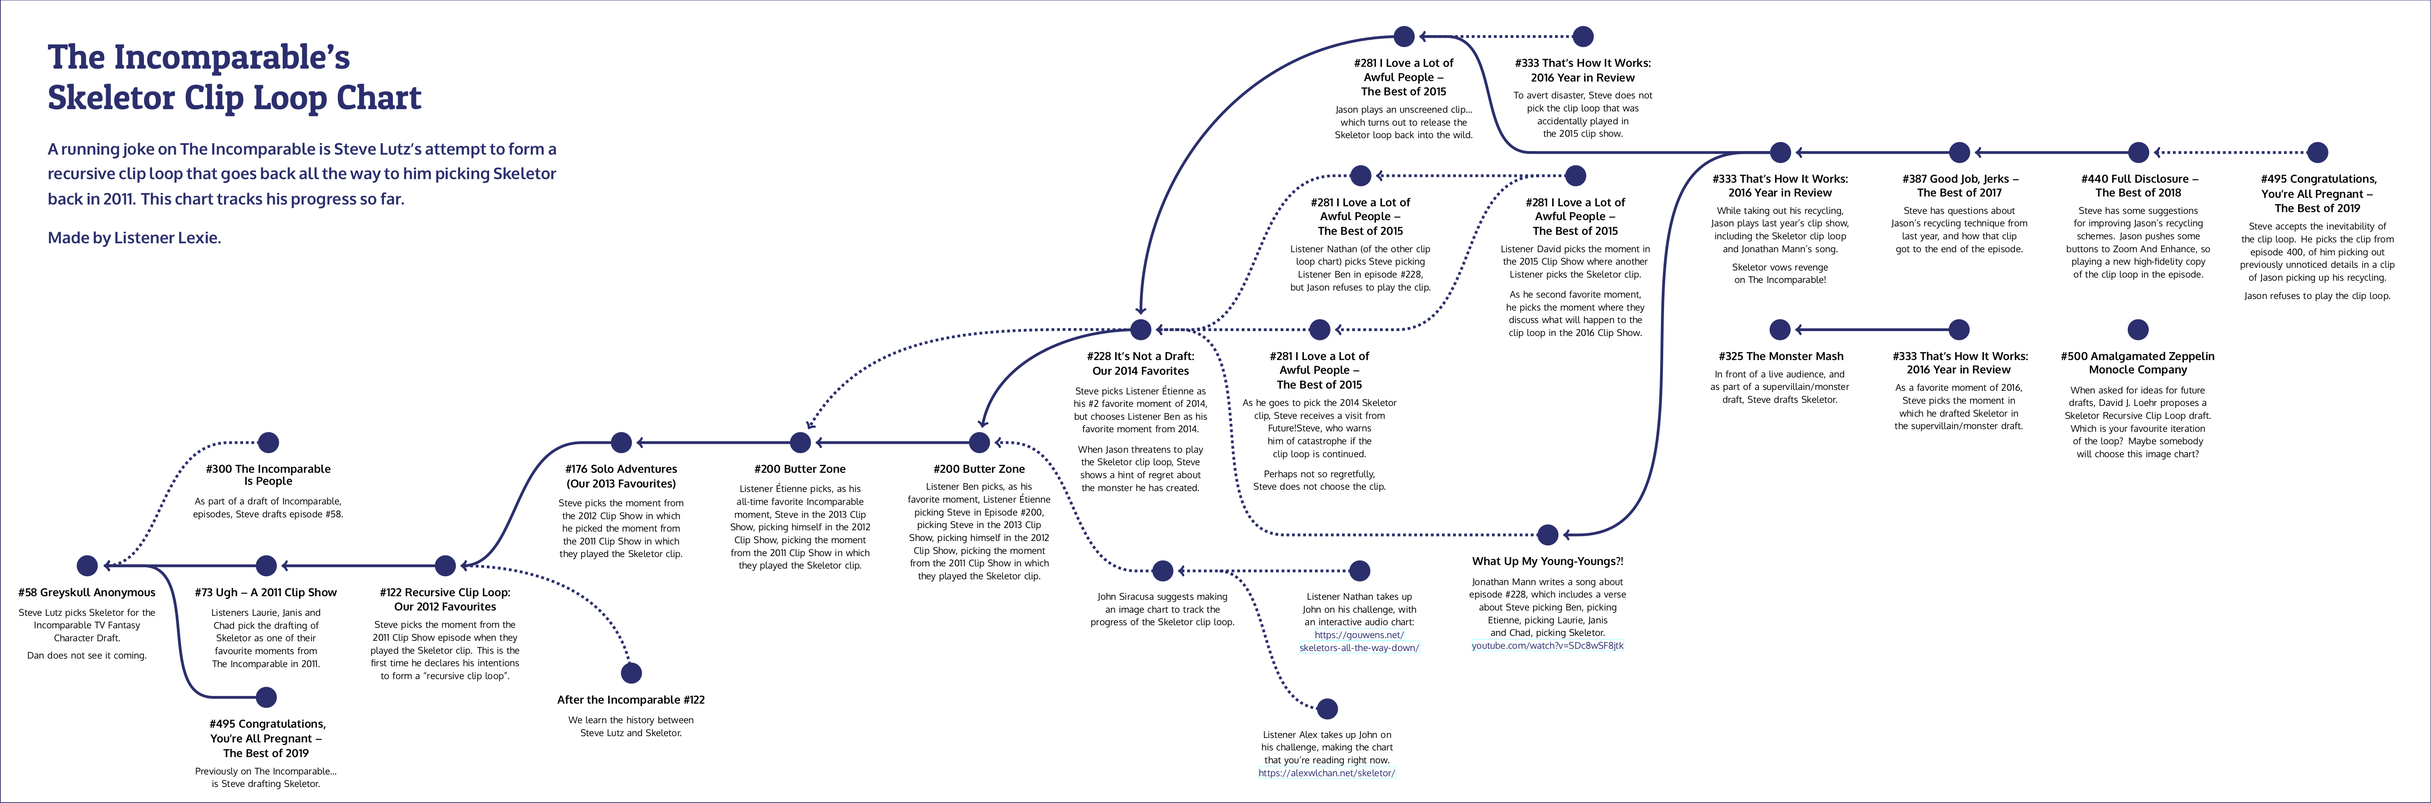
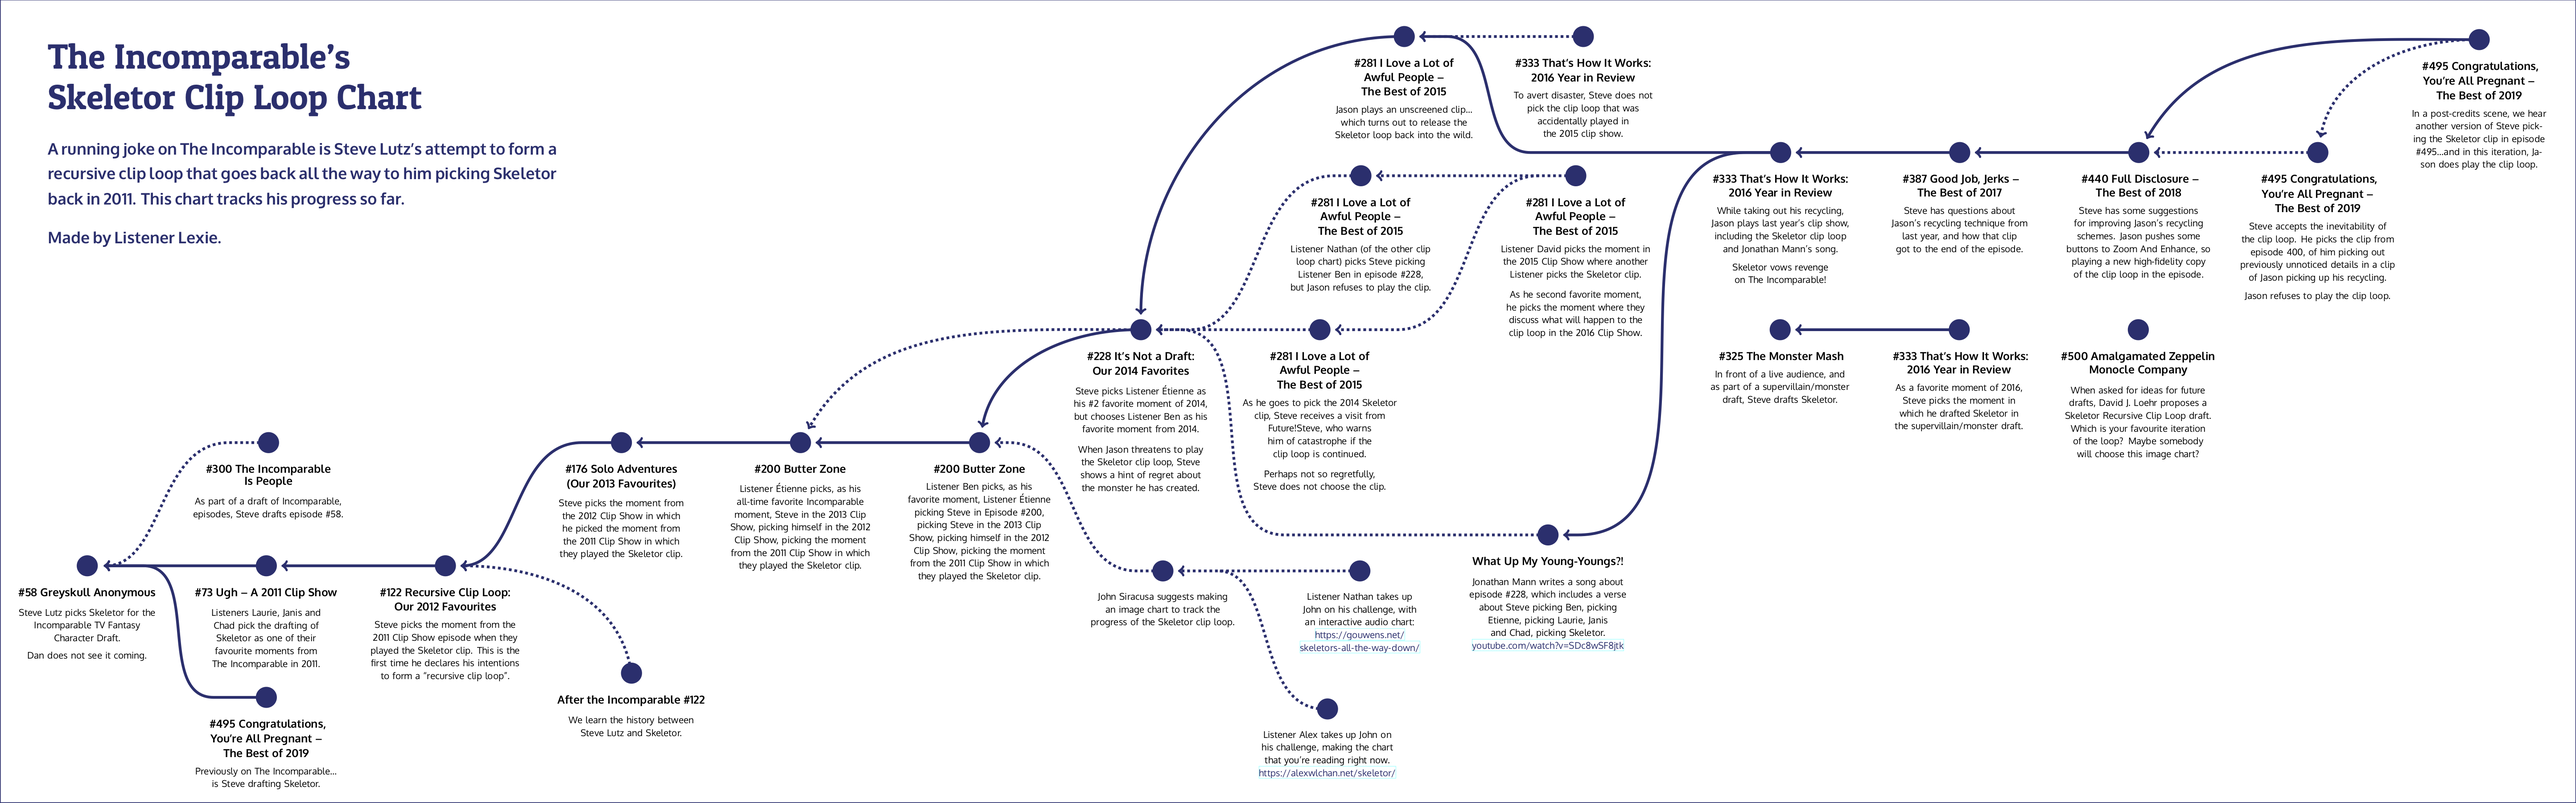
Add a moment I'd forgotten about

diff --git a/src/skeletor/skeletor_feb2020.tex b/src/skeletor/skeletor_feb2020.tex
@@ -51,7 +51,7 @@
 \begin{document}
   \begin{tikzpicture}
 
-    \draw [incompblue, thick] (-3.3, -9) rectangle (89, 21.5);
+    \draw [incompblue, thick] (-3.3, -9) rectangle (94.5, 21.5);
 
     \draw [incompblue] (8.5, 16) node [align=left, text width=20cm] (title) {\textsf{\HUGE{%
       The\, Incomparable's \\[8pt] %
@@ -350,6 +350,16 @@
     }{%
       When asked for ideas for future drafts, David J.~Loehr proposes a Skeletor Recursive Clip Loop draft. Which is your favourite iteration of the loop? Maybe somebody will choose this image chart?
     }
+
+    \draw (ep495_clip) ++ (35:1.1*\hspacing) node (ep495_end) {};
+    \episode{ep495_end}{
+      \#495 Congratulations, You're All Pregnant -- \\[2pt]
+      The Best of 2019
+    }{%
+      In a post-credits scene, we hear another version of Steve picking the Skeletor clip in episode \#495\ldots and in this iteration, Jason does play the clip loop.
+    }
+    \link [dashed] (ep495_end) to [out=180, in=80] (ep495_clip);
+    \link (ep495_end) to [out=180, in=60] (ep440);
 
   \end{tikzpicture}
 \end{document}
